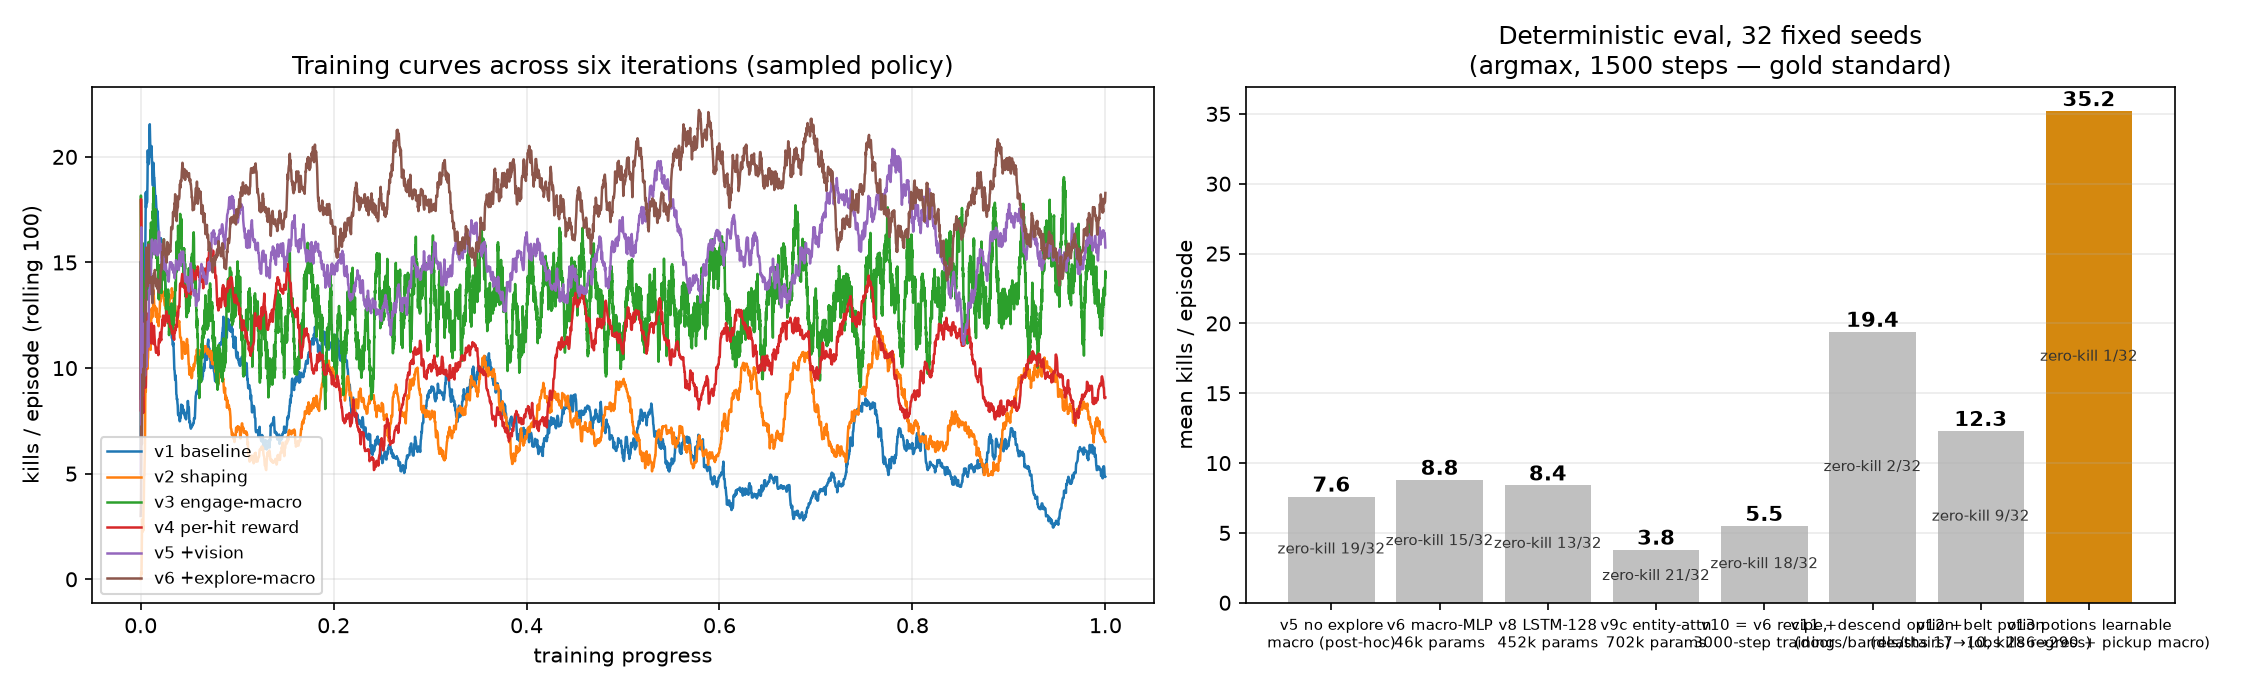
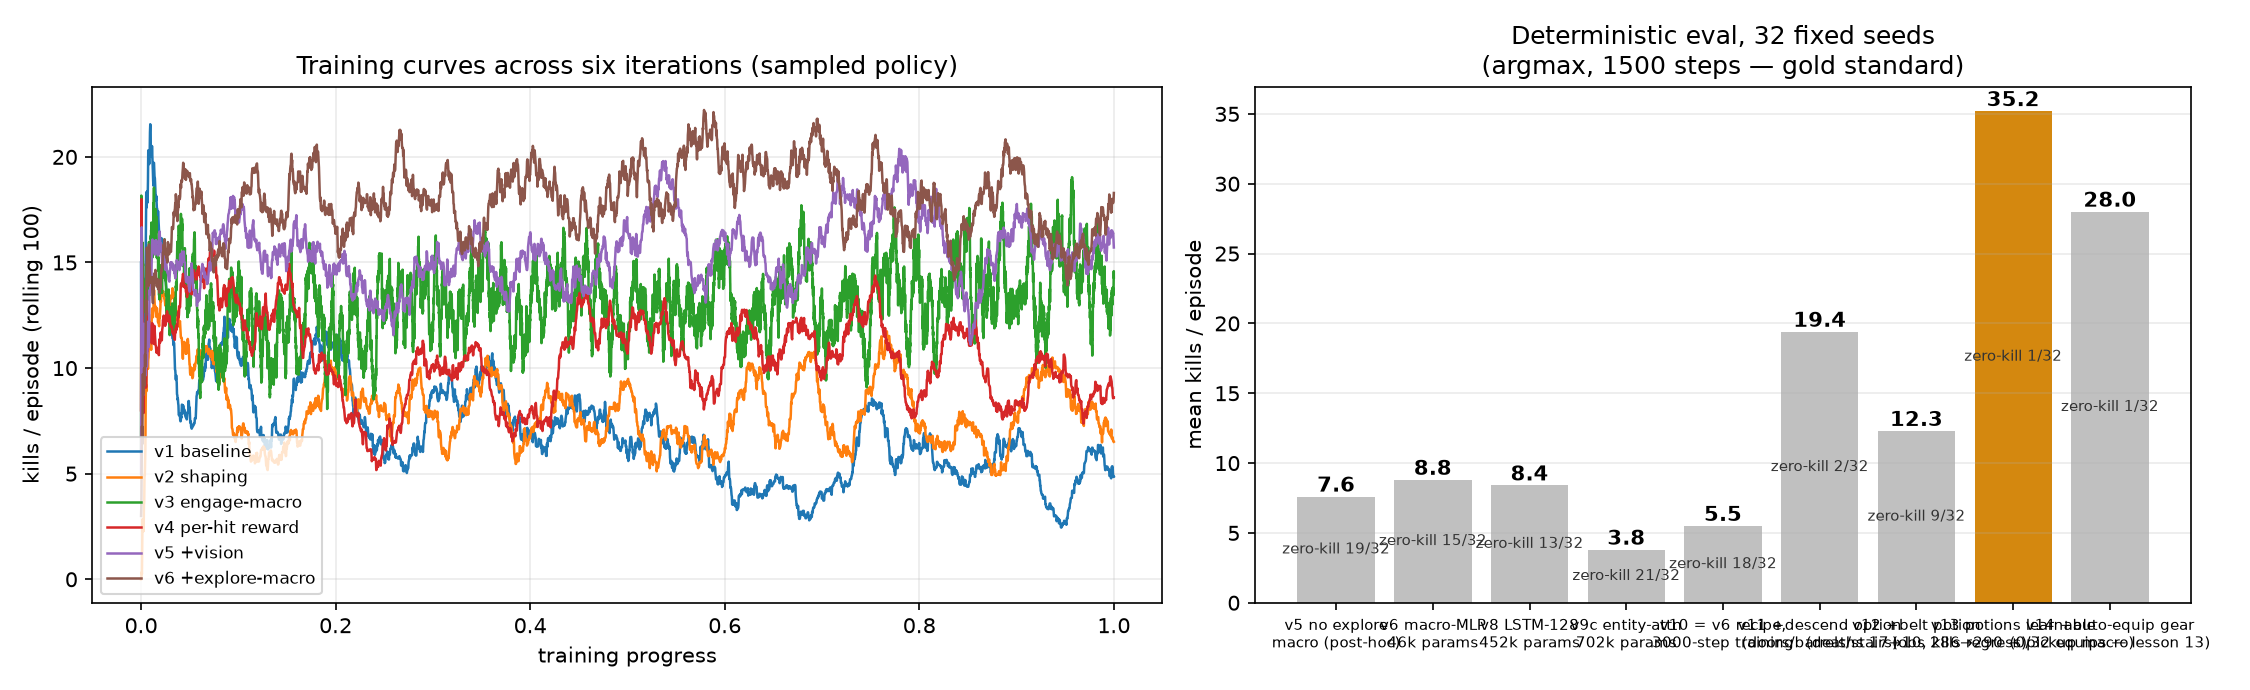
v14 verdict: 0/32 equips, registered predictions 0/5 — lesson 13 (the reward stream is the last observer); v13 retains the crown
The gear pipeline is flawless end-to-end and the policy never learned to
want it: armor's payoff is statistically invisible to a 3M-step
credit-assignment horizon. Observable preconditions (lesson 12) are
necessary, not sufficient — consequences must reach the learning signal.

diff --git a/train/plot_figures.py b/train/plot_figures.py
@@ -46,6 +46,7 @@ BARS = [
     ("ppo-l1-v11-descend", "v11 +descend option\n(doors/barrels/stairs)"),
     ("ppo-l1-v12-drink", "v12 +belt potion\n(deaths 17→10, kills regress)"),
     ("ppo-l1-v13-pickup", "v13 potions learnable\n(obs 286→290 + pickup macro)"),
+    ("ppo-l1-v14-gear", "v14 +auto-equip gear\n(0/32 equips — lesson 13)"),
 ]
 CHAMPION = "ppo-l1-v13-pickup"
 

diff --git a/README.md b/README.md
@@ -6,7 +6,7 @@
 [DevilutionX](https://github.com/diasurgical/devilutionX), plus the training
 pipeline that took a PPO agent from *hiding in a corner* to *opening doors,
 smashing barrels, looting potions and fighting its way down through the
-dungeon* — thirteen documented runs, one diagnosed failure mode eliminated
+dungeon* — fourteen documented runs, one diagnosed failure mode eliminated
 (or one hypothesis falsified) per run.
 
 - 🚀 **~13,000× realtime**: full game logic, headless — 254k engine ticks/s raw,
@@ -42,6 +42,7 @@ iterations that built the champion. Right: the gold standard — deterministic
 | v11 = v6 + descend option | 45,901 | 19.4 | 14.5 | **70** | 2/32 | **27/32** |
 | v12 = v11 + belt-potion action | 45,966 | 12.3 | 10.0 | 46 | 9/32 | 26/32 |
 | **v13 = potion system made learnable (champion)** | 46,543 | **35.2** | **29.0** | 65 | **1/32** | 25/32 |
+| v14 = v13 + auto-equip gear | 47,120 | 28.0 | 26.0 | 67 | 1/32 | 19/32 |
 
 ¹ *Evaluated post-hoc on the current env (same observation; it never selects
 the explore macro). Protocol: seeds 9000-9031, 1500 steps, argmax, idle
@@ -56,7 +57,10 @@ v13 is the first config with a same-config seed repeat (means 35.2 and
 38.1 — the effect is robust), and the repeat taught us something the level
 could not: deaths (12 vs 21/32) and drink discipline (93% vs 46%
 real-share) vary wildly between runs of the same config. *How much* it
-wins is reproducible; *how* it wins is not.
+wins is reproducible; *how* it wins is not. v14's registered predictions
+went **0/5** — gear-equip rate ≥16/32 landed at **0/32** (six presses of
+the gear key in 48,000 evaluation steps); the post-mortem is lesson 13,
+and v13 remains champion.
 Leaderboard checkpoints are not distributed yet (a tagged release is
 planned); rows come from the author's runs and are deterministically
 re-evaluable given the checkpoint. Champion honesty numbers: v13's
@@ -106,7 +110,7 @@ Four findings we did not expect:
    observability (lessons 5, 11, 12); how thoroughly a given run exploits
    it is seed lottery.
 
-### Twelve lessons from thirteen runs (short version)
+### Thirteen lessons from fourteen runs (short version)
 
 1. Don't tax the intermediate costs of the behaviour you want, and don't leave
    zero-cost sanctuaries in the reward landscape (v1's wall-hugger).
@@ -153,6 +157,16 @@ Four findings we did not expect:
     to the next zero-risk action; budget for attractor migration whenever
     you add one — and only trust behaviour-composition claims that survive
     a seed repeat.
+13. The reward stream is the last observer. v14 made gear preconditions
+    fully observable (AC + nearest wearable in obs, auto-equip wired,
+    probes green) and the policy still pressed the gear key 6 times in
+    48,000 evaluation steps, equipping nothing: armor's consequence — a
+    few percent less damage spread over hundreds of steps — is invisible
+    to a 3M-step credit-assignment horizon. Perception bounds what can be
+    known (5), the action set what can be done (10), the reward horizon
+    what can be *learned*. A capability chain is only as strong as its
+    least observable link: precondition → policy, consequence → learning
+    signal.
 
 ## Quickstart (macOS, Apple Silicon)
 
@@ -213,9 +227,11 @@ quirks are documented in [train/evaluate.py](train/evaluate.py).
   cost (lesson 11); v13 made the potion system *learnable* (belt count +
   nearest floor heal into the observation, door-aware pickup macro) —
   deaths 17/32 → 12/32 while mean kills doubled to 35.2
-- [ ] Gear up: auto-equip armor/helms from the floor via a door- and
-  monster-aware pickup macro (v14, training as this line is written);
-  weapon upgrades next
+- [ ] Gear up: v14 wired auto-equip end-to-end (probes green) but the
+  policy never learned to press the key — armor's payoff is invisible to
+  the reward stream at 3M steps (lesson 13). v15 candidates: bounded
+  AC-gain shaping, a gear-rich training curriculum, or 10-30× steps on
+  bigger hardware
 - [ ] Clear-rate objective
 - [ ] The Butcher 🥩 (his greeting already crashed our headless engine once —
   see patches/0003; killing him is next)
@@ -243,12 +259,14 @@ commercial real-time ARPG engine, unmodified at the game-rules level.
 基于 DevilutionX 的暗黑破坏神 I 强化学习环境:无头引擎裸跑 ~13,000 倍实时
 (含观测的 env.step 约 7,500 步/秒,~1,500 倍实时)、种子级确定性(评估跨进程
 位级可复现)、Gymnasium 接口、宏动作(交战/探索/下楼/喝药/捡药)、零依赖训练
-监控面板。十三轮迭代把 PPO 从"面壁思过"练到"开门、砸桶、捡药续命、一路下杀"
+监控面板。十四轮迭代把 PPO 从"面壁思过"练到"开门、砸桶、捡药续命、一路下杀"
 (32 种子金标准均击杀 **35.2**,较上代冠军近乎翻倍;实喝纪律 0.5%→93.4%),
-并留下十二课教训:奖励税、塑形归因、动作时序、防磨刀、感知天花板、探索
+并留下十三课教训:奖励税、塑形归因、动作时序、防磨刀、感知天花板、探索
 option、宏退化吸引子、评估运气税、任务设计>架构、能力住在动作空间、新动作
-也是新藏身处、**纪律是观测的函数而藏身处守恒**——每一课都有数据实锤,完整
-踩坑史见 [docs/DESIGN.md](docs/DESIGN.md)。
+也是新藏身处、纪律是观测的函数而藏身处守恒、**奖励流是最后一位观察者**
+(v14 装备键:前置条件全可观测,但护甲的收益对奖励流不可见——48,000 步
+评估只按了 6 次,0/32 穿甲)——每一课都有数据实锤,完整踩坑史见
+[docs/DESIGN.md](docs/DESIGN.md)。
 
 ## Legal
 

diff --git a/train/leaderboard.md b/train/leaderboard.md
@@ -16,6 +16,7 @@ All rows re-measured 2026-07-05 on the same build.
 | ppo-l1-v12-drink² | 12.3 | 10.0 | 46 | 9/32 | 26 |
 | ppo-l1-v13-pickup³ | 35.2 | 29.0 | 65 | 1/32 | 25 |
 | ppo-l1-v13-pickup-s14⁴ | 38.1 | 33.5 | 76 | 1/32 | 24 |
+| ppo-l1-v14-gear⁵ | 28.0 | 26.0 | 67 | 1/32 | 19 |
 
 ¹ v5 predates the explore macro; evaluated post-hoc on the current env
 (same 286-dim observation, it simply never selects action 10). v1-v4
@@ -42,6 +43,15 @@ does not: deaths 12 vs 21/32, real-drink share 93.4% vs 45.7% (pooled
 65%), and idle-spam seeds go 1 → 3 (9001 presses pickup for its entire
 episode). Outcome-level claims are robust; behaviour-composition claims
 carry single-run error bars.
+
+⁵ The gear chapter's registered predictions went 0/5. The instrumented
+autopsy found the mechanism: across all 32 episodes the policy pressed the
+gear key 6 times and equipped nothing (0/32) — armor's payoff (a few
+percent less damage, spread over hundreds of steps) is invisible to the
+reward stream at this training horizon, so the button never earns value
+(lesson 13: observable preconditions are necessary, not sufficient).
+Kills 28.0 and reached-L2 19/32 sit below the v13 config's two-run spread;
+v13 keeps the crown.
 
 Long-episode probe (max_steps 1500 → 3000, same protocol): per-seed
 kills are bit-identical for both v6 and v10 at both horizons (32/32